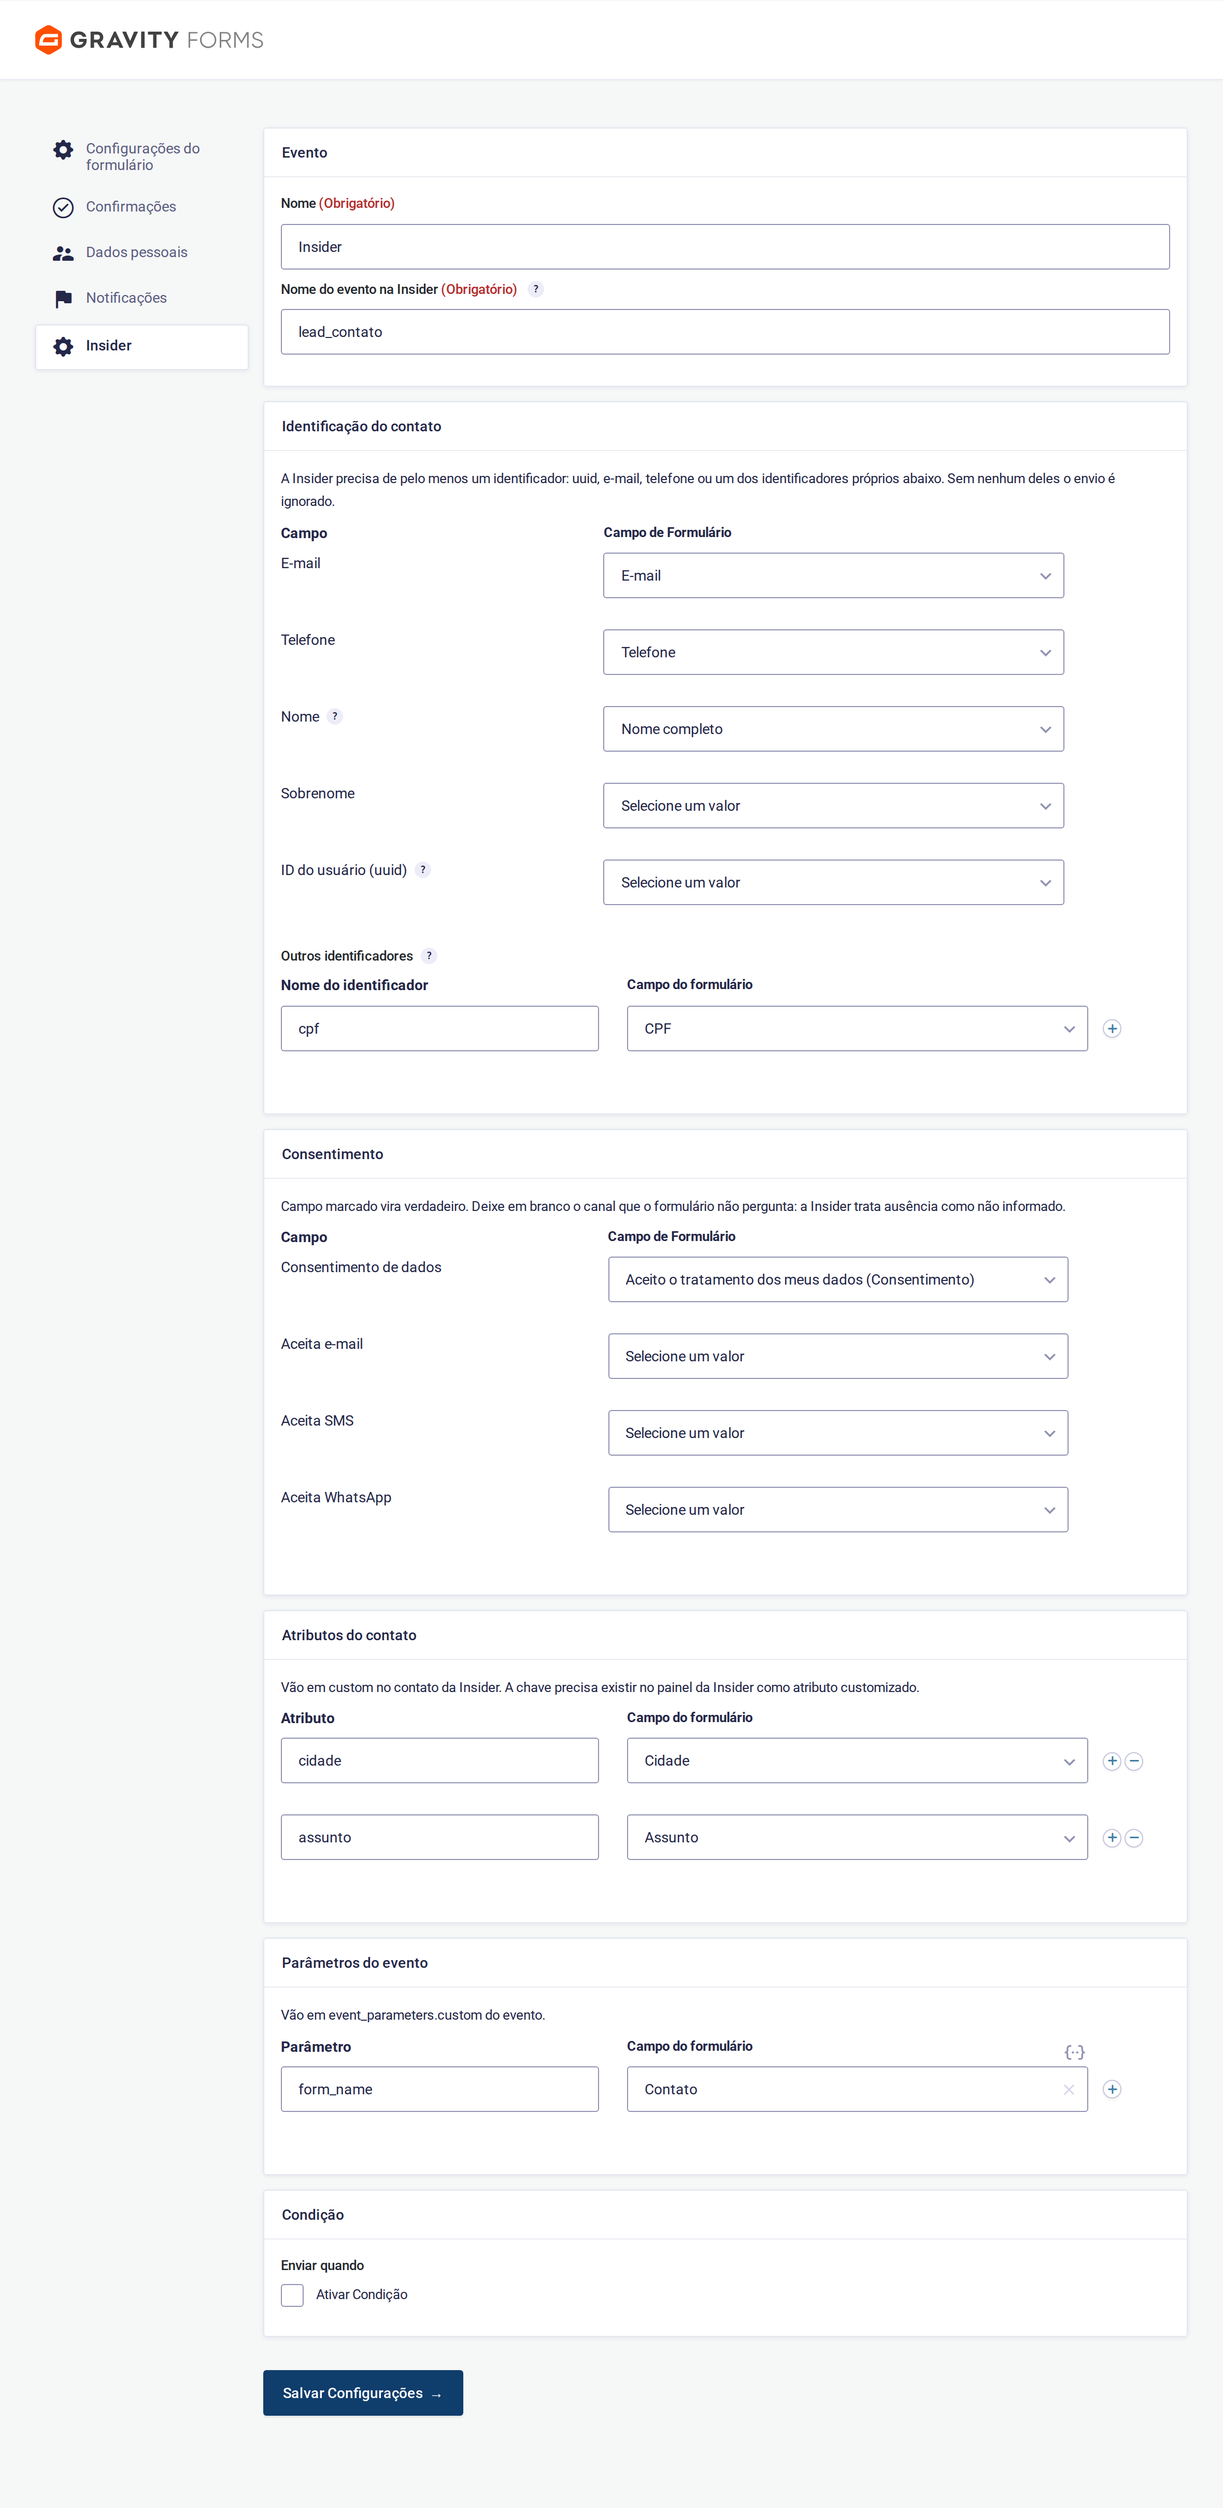
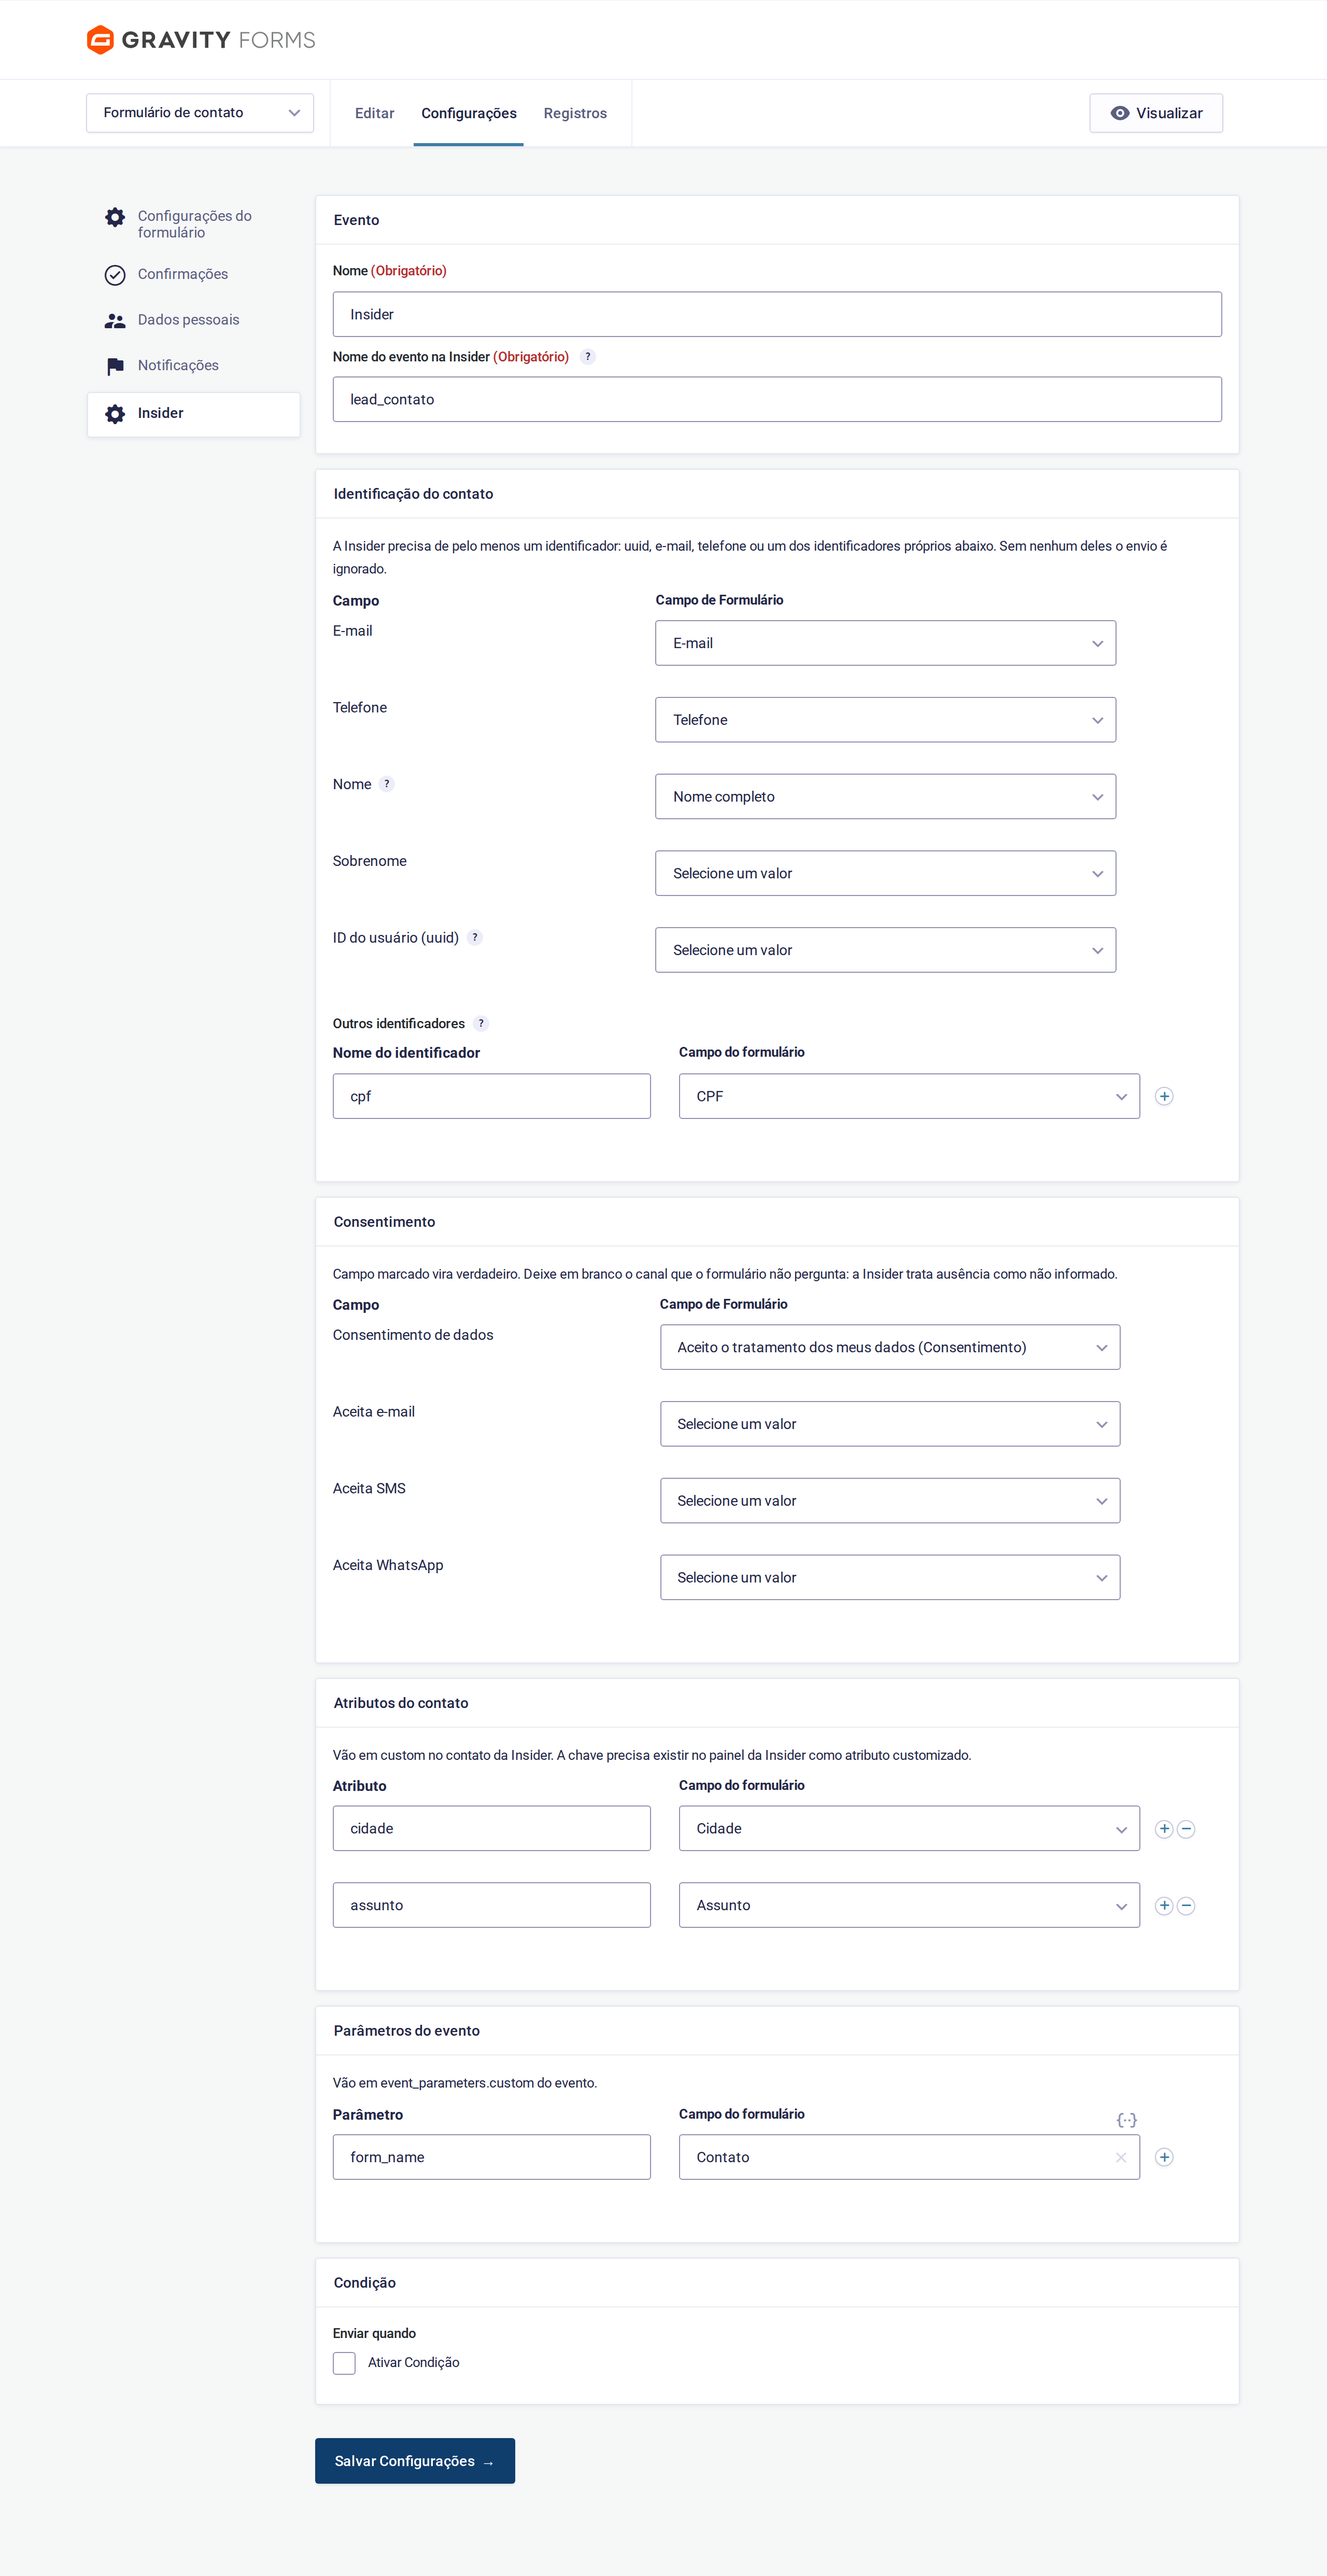
docs: rewrite the README in English and show the surrounding screen
The close-ups framed the panels alone, so nothing said the screen lived inside
Gravity Forms. The shots now keep the plugin header, the form tabs and the
settings navigation, and three of them replace the six cropped ones.

diff --git a/README.md b/README.md
@@ -1,52 +1,49 @@
 # Insider for Gravity Forms
 
-Add-on que entrega os envios do Gravity Forms à [Insider](https://useinsider.com)
-e publica a tag do SDK no site. Cada formulário ganha um *feed* onde você escolhe,
-**pelo painel**, qual campo vira o e-mail, o telefone, o nome e o identificador do
-contato, quais campos viram atributos e quais viram parâmetros do evento.
+Sends Gravity Forms submissions to [Insider](https://useinsider.com) and prints the
+Insider tag. One feed per form, mapped in the admin — no code.
 
-## Como funciona
+![Feed list](docs/feed-list.png)
 
-O envio acontece no **navegador de quem preencheu**, pela `window.InsiderQueue`,
-e não por chamada de API do servidor. A diferença importa:
+## How it works
 
-- O lead fica ligado à sessão que a Insider já reconhece, então a pessoa é a mesma
-  que navegou, viu as campanhas e pode receber web push. Um `upsert` server-side
-  cria o contato sem essa ligação.
-- Os **valores vêm do servidor**, montados a partir do registro salvo. Um formulário
-  de várias etapas envia todos os campos, e não só os da última tela — que é o que
-  aconteceria lendo o DOM no submit.
+The push runs **in the visitor's browser**, through `window.InsiderQueue`, not through
+a server-side API call. Two reasons:
 
-Na prática, o plugin anexa à confirmação do formulário um bloco como este:
+- The lead stays tied to the session Insider already knows, so it is the same person
+  who browsed the site and can receive web push. A server-side upsert loses that link.
+- The **values come from the server**, built from the saved entry, so a multi-page form
+  sends every field — not just the last screen.
+
+What the plugin appends to the form confirmation:
 
 ```js
 window.InsiderQueue.push({ type: 'user', value: {
-  email: 'maria@exemplo.com.br',
+  email: 'maria@example.com',
   phone_number: '+5531988887777',
-  name: 'Maria', surname: 'da Silva',
+  name: 'Maria', surname: 'Silva',
   custom_identifiers: { cpf: '52998224725' },
   gdpr_optin: true,
-  custom: { cidade: 'Belo Horizonte', valor_emprestimo: 15000 }
+  custom: { city: 'Belo Horizonte', loan_amount: 15000 }
 }});
 window.InsiderQueue.push({ type: 'custom_event', value: [{
-  event_name: 'lead_contato',
-  event_parameters: { custom: { form_name: 'Contato' } }
+  event_name: 'lead_contact',
+  event_parameters: { custom: { form_name: 'Contact' } }
 }]});
 ```
 
-## Requisitos
+## Requirements
 
-- WordPress 5.9+, PHP 7.4+
-- Gravity Forms 2.5+
-- Uma conta Insider, com o **domínio do site liberado** (sem isso o SDK carrega mas
-  não envia nada)
+WordPress 5.9+ · PHP 7.4+ · Gravity Forms 2.5+ · an Insider account with **your domain
+allowed** (without it the SDK loads but sends nothing).
 
-## Instalação
+## Install
 
-Baixe o `.zip` da [última release](https://github.com/jeffersonrucu/wp-gf-insider/releases)
-e instale por **Plugins › Adicionar novo › Enviar plugin**.
+Download the `.zip` from the [latest release](https://github.com/jeffersonrucu/wp-gf-insider/releases)
+and install it under **Plugins › Add New › Upload Plugin**.
 
-Em projetos com Composer:
+<details>
+<summary>Composer</summary>
 
 ```json
 {
@@ -62,135 +59,110 @@ Em projetos com Composer:
   }
 }
 ```
+</details>
 
-## Configuração
+## Setup
 
-### 1. A conta
+### 1. Account
 
-**Formulários › Configurações › Insider.** Os dois valores saem da tag que a Insider
-fornece — em `https://{nome}.api.useinsider.com/ins.js?id={id}`, o `{nome}` é o nome
-do parceiro e o `{id}` é o ID.
+**Forms › Settings › Insider.** Both values come from the tag Insider gives you —
+in `https://{name}.api.useinsider.com/ins.js?id={id}`.
 
-![Configurações da conta](docs/settings.png)
+![Account settings](docs/settings.png)
 
-Com **Tag da Insider** ligada, o plugin publica no `<head>` de todas as páginas:
+With the toggle on, the plugin prints this in `<head>` on every page:
 
 ```html
 <script>window.InsiderQueue = window.InsiderQueue || [];</script>
-<script async src="https://suaempresa.api.useinsider.com/ins.js?id=10000000"></script>
+<script async src="https://yourcompany.api.useinsider.com/ins.js?id=10000000"></script>
 ```
 
-A fila é declarada **antes** da tag porque o SDK lê o que já está nela ao carregar.
-Desligue o toggle se a tag já entra por um gerenciador de tags.
+The queue is declared **before** the tag because the SDK reads whatever is already in
+it on load. Turn the toggle off if a tag manager already injects the tag.
 
-### 2. O feed do formulário
+### 2. Feed
 
-**Formulários › [o formulário] › Configurações › Insider › Adicionar novo.**
+**Forms › [your form] › Settings › Insider › Add New.**
 
-#### Evento
+![Feed](docs/feed.png)
 
-![Evento](docs/evento.png)
+The **event name** must match the one registered in your Insider panel.
 
-O **nome do evento** precisa ser igual ao que está cadastrado no painel da Insider.
-Use um evento por tipo de formulário (`lead_contato`, `lead_orcamento`) quando quiser
-segmentar cada um separadamente, ou um só para todos com o formulário indo em um
-parâmetro.
+Insider needs **at least one identifier**. Without any, the contact is skipped and only
+the event fires.
 
-#### Identificação do contato
-
-![Identificação do contato](docs/identificacao.png)
-
-A Insider precisa de **pelo menos um identificador**: `uuid`, e-mail, telefone ou um
-identificador próprio. Sem nenhum, o envio é ignorado e só o evento é disparado.
-
-| Campo | Para que serve |
+| Field | Notes |
 | --- | --- |
-| **E-mail**, **Telefone** | Identificadores padrão. O telefone é convertido para E.164 (`(31) 9 8888-7777` → `+5531988887777`) |
-| **Nome** | Um campo de nome completo também preenche o sobrenome, quebrando no primeiro espaço |
-| **Sobrenome** | Só se o formulário perguntar separado; mapeado aqui, o nome não é quebrado |
-| **ID do usuário (uuid)** | O identificador principal da Insider: o id que a pessoa já tem no seu sistema. Deixe vazio se o formulário não souber esse id |
-| **Outros identificadores** | Identificador adicional com nome próprio, como o CPF. Chega na Insider como `c_cpf` |
+| **Email**, **Phone** | Standard identifiers. Phone is converted to E.164 (`(31) 9 8888-7777` → `+5531988887777`) |
+| **Name** | A full-name field also fills the surname, splitting at the first space |
+| **Surname** | Map it only if the form asks separately |
+| **User ID (uuid)** | Insider's main identifier: the id the person already has in your system. Leave empty if the form does not know it |
+| **Other identifiers** | An extra identifier with its own name, such as a national ID. Insider receives it as `c_cpf` |
 
-> **Não use o `uuid` para o CPF.** Se o seu back-end envia `uuid` com o id interno e o
-> site envia `uuid` com o CPF, a Insider guarda duas pessoas diferentes. O CPF vai em
-> *Outros identificadores*, e o plugin remove a pontuação antes de enviar — é assim
-> que um back-end costuma gravar, e um ponto de diferença já cria um segundo perfil.
+> **Do not put a document number in `uuid`.** If your back end sends `uuid` with an
+> internal id and the site sends `uuid` with a document, Insider keeps two people. Use
+> *Other identifiers* — the plugin strips punctuation before sending, which is how a
+> back end usually stores it.
 
-#### Consentimento
+A checked consent field becomes `true`. **Leave blank any channel the form does not ask about:**
+a data-processing consent is not a marketing opt-in, and Insider treats absence as
+"unknown".
 
-![Consentimento](docs/consentimento.png)
+- **Contact attributes** → the contact's `custom`
+- **Event parameters** → `event_parameters.custom`, accepting a form field or a fixed value
 
-Campo marcado vira `true`. **Deixe em branco o canal que o formulário não pergunta:**
-um aceite de tratamento de dados não é opt-in de marketing, e a Insider trata a
-ausência como "não informado".
+Numbers are sent as numbers (`15000`, not `"15000"`) so Insider can segment by range.
+A leading zero means a code, not a quantity: `01310` stays text.
 
-#### Atributos e parâmetros
+Use **Condition** to send only entries matching a rule.
 
-![Atributos do contato](docs/atributos.png)
+### 3. In the Insider panel
 
-- **Atributos do contato** → `custom` do contato. A chave precisa existir no painel
-  da Insider como atributo customizado.
-- **Parâmetros do evento** → `event_parameters.custom`. Aceita campo do formulário ou
-  valor fixo, útil para carimbar a origem.
+1. **Allow your domain** on the account.
+2. **Attributes › Create** — every key used in *Contact attributes*, with the right data
+   type (Number for amounts and counts, String otherwise).
+3. **Events › Create** — every event name used in your feeds, with its parameters.
 
-Valores numéricos são enviados como número (`15000`, não `"15000"`), senão a Insider
-não consegue segmentar por faixa. Um zero à esquerda marca código, não quantidade:
-`01310` continua texto.
+An attribute or event that does not exist in the panel is dropped on arrival.
 
-#### Condição
+## Testing
 
-Serve para enviar só quando o registro atender a uma regra — por exemplo, mandar
-apenas quem marcou um determinado assunto.
+Install [Insider Hits](https://chromewebstore.google.com/detail/insider-hits/dgfcbjjhlabibmpjlpdmlommhcpklkib):
+it adds a DevTools tab listing every hit, split by event.
 
-### 3. Antes de ir ao ar
+1. Open any page — a page view proves the domain is allowed.
+2. Submit the form. Two hits should follow: the contact and the event.
+3. In the panel, find the contact under **User Profiles** and the event under
+   **Event History**.
 
-No painel da Insider:
-
-1. **Libere o domínio do site** na conta.
-2. **Attributes › Create**: cada chave usada em *Atributos do contato*, com o Data Type
-   certo (Number para valor e quantidade, String para o resto).
-3. **Events › Create**: cada nome de evento usado nos feeds, com seus parâmetros.
-
-Atributo ou evento que não existe no painel é descartado na chegada.
-
-## Como validar
-
-1. Instale a extensão [Insider Hits](https://chromewebstore.google.com/detail/insider-hits/dgfcbjjhlabibmpjlpdmlommhcpklkib):
-   ela abre uma aba no DevTools com cada hit enviado, já separado por evento.
-2. Abra qualquer página e confirme que o page view sai — é o que prova que o domínio
-   está liberado.
-3. Preencha o formulário. Devem sair dois hits: o contato e o evento.
-4. No painel: procure o contato em **User Profiles** e o evento em **Event History**.
-
-Para ver o que sai sem depender da resposta da Insider, cole no console **antes** de
-enviar o formulário:
+To inspect the push without waiting on Insider, run this in the console **before**
+submitting:
 
 ```js
 (() => { const p = window.InsiderQueue.push.bind(window.InsiderQueue);
   window.InsiderQueue.push = (...a) => { console.log('InsiderQueue →', ...a); return p(...a); }; })()
 ```
 
-## Detalhes que evitam dor de cabeça
+## Gotchas
 
-- **Cache e delay de JS.** O plugin já se exclui do WP Rocket e do Perfmatters. Sem
-  isso o Rocket atrasa a tag até a primeira interação **e** minifica o `ins.js` numa
-  cópia local, que congela o SDK na versão em cache.
-- **Confirmação por redirecionamento.** O push viaja na confirmação do formulário; um
-  formulário configurado para redirecionar não tem onde carregá-lo. Use confirmação de
-  texto nos formulários que alimentam a Insider.
-- **Sem identificador, sem contato.** Um formulário que só pede assunto e mensagem
-  dispara o evento, mas não cria contato.
+- **Caching plugins.** The plugin already excludes itself from WP Rocket and
+  Perfmatters. Otherwise Rocket delays the tag until first interaction **and** minifies
+  `ins.js` into a local copy, freezing the SDK at the cached version.
+- **Redirect confirmations.** The push rides the form confirmation, and a redirect has
+  no markup to carry it. Use a text confirmation on forms that feed Insider.
+- **No identifier, no contact.** A form asking only for a subject and a message fires
+  the event but creates no contact.
 
-## Desenvolvimento
+## Development
 
-As regras de conversão (E.164, nome/sobrenome, consentimento, tipo e identificador)
-ficam em `includes/class-gf-insider-payload.php`, sem dependência do WordPress, e têm
-verificação própria:
+The conversion rules — E.164, name splitting, consent, typing, identifiers — live in
+`includes/class-gf-insider-payload.php` with no WordPress dependency, and have their
+own check:
 
 ```sh
 php tests/test-payload.php
 ```
 
-## Licença
+## License
 
-GPL-2.0-or-later.
+GPL-2.0-or-later
